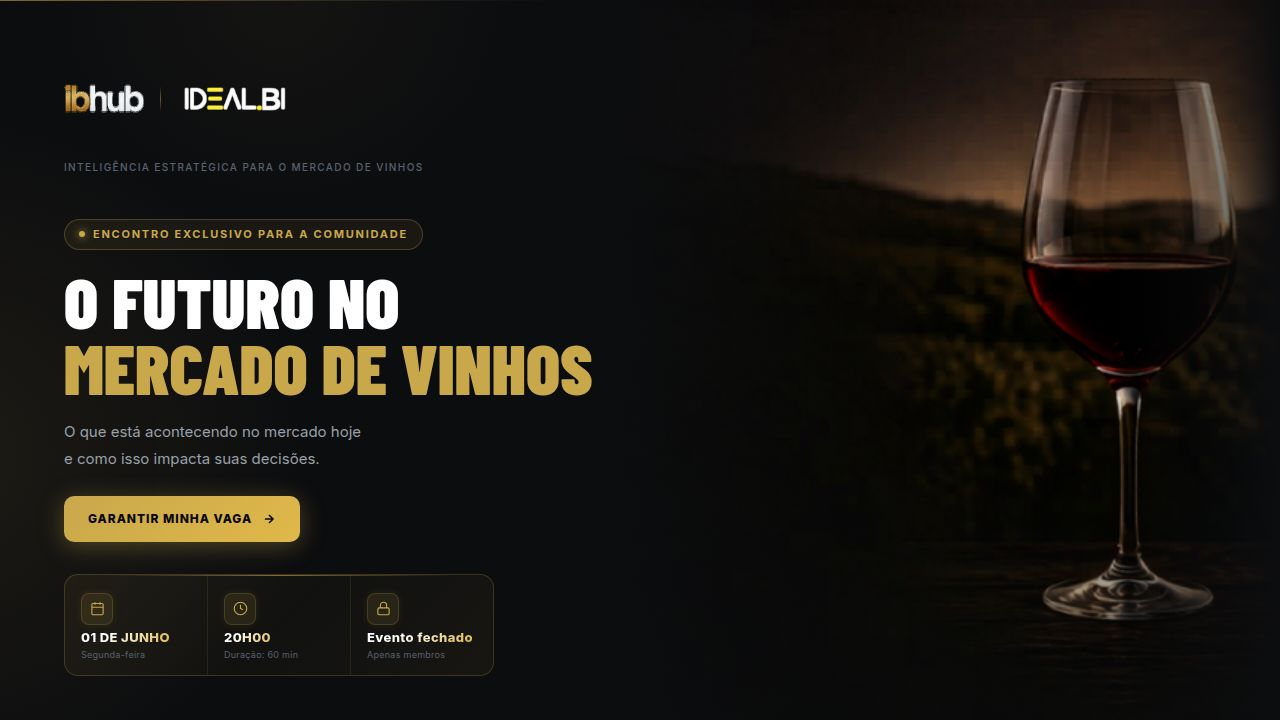
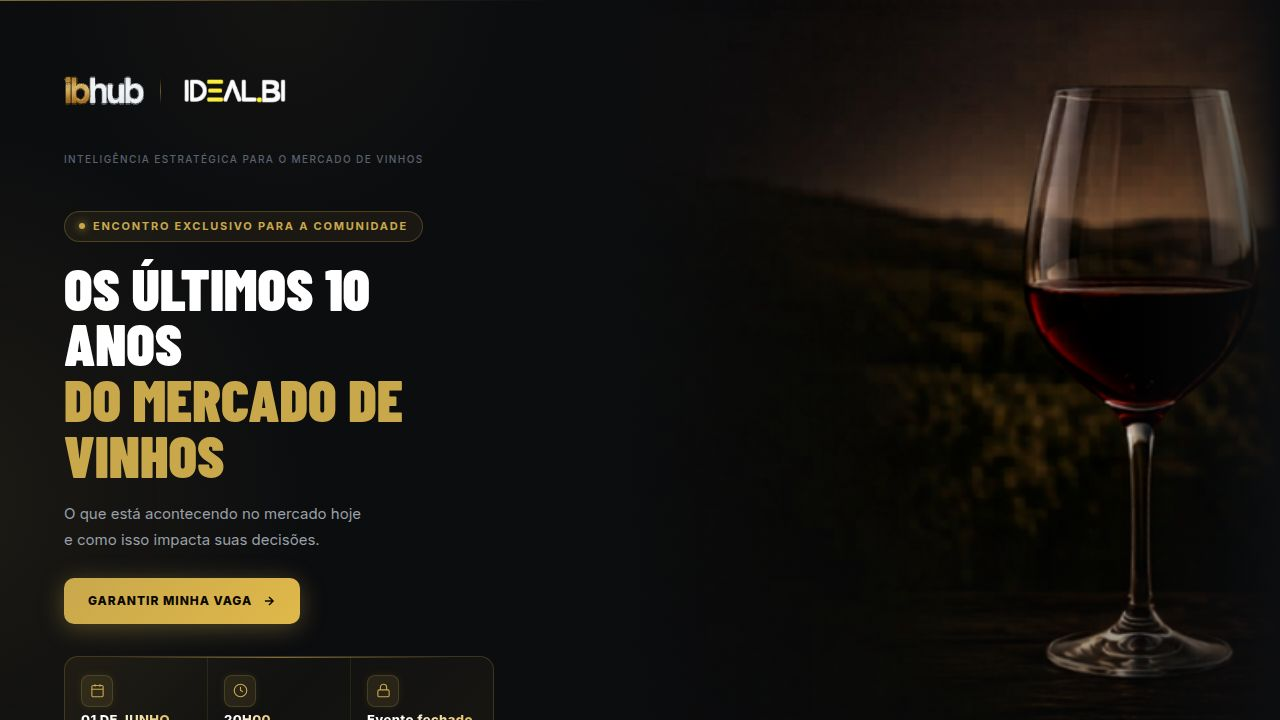
Update landing page title and improve user guidance with scroll indicator
Modify landing page title to "OS ÚLTIMOS 10 ANOS DO MERCADO DE VINHOS". Introduce an animated scroll-down arrow and adjust hero section height to bring the next section closer to the viewport, improving user experience and guiding them to further content.

Replit-Commit-Author: Agent
Replit-Commit-Session-Id: 2eb05c39-fa9f-46b1-afb6-aa17037cadb7
Replit-Commit-Checkpoint-Type: full_checkpoint
Replit-Commit-Event-Id: 6b0df346-e45e-4c02-917c-3f056e9dd2f2
Replit-Commit-Screenshot-Url: https://storage.googleapis.com/screenshot-production-us-central1/d8bcdebb-60bd-4856-affe-92aeed4161f0/2eb05c39-fa9f-46b1-afb6-aa17037cadb7/tvtwIUc
Replit-Helium-Checkpoint-Created: true

diff --git a/artifacts/landing-vinho/src/pages/Registration.tsx b/artifacts/landing-vinho/src/pages/Registration.tsx
@@ -102,8 +102,8 @@ export default function Registration() {
       <section style={{
         display: "grid",
         gridTemplateColumns: isMobile ? "1fr" : "44% 56%",
-        minHeight: isMobile ? "auto" : "760px",
-        position: isMobile ? "relative" : "static",
+        minHeight: isMobile ? "auto" : "620px",
+        position: "relative",
         overflow: "hidden",
       }}>
         {/* Mobile background image — sits behind content */}
@@ -123,7 +123,7 @@ export default function Registration() {
           background: isMobile ? "transparent" : `radial-gradient(ellipse 100% 70% at -10% 60%, rgba(201,168,76,0.09) 0%, transparent 65%),
                        radial-gradient(ellipse 60% 40% at 50% 0%, rgba(201,168,76,0.04) 0%, transparent 70%),
                        ${C.bg}`,
-          padding: isMobile ? "36px 24px 48px" : "44px 64px 56px",
+          padding: isMobile ? "36px 24px 56px" : "36px 64px 72px",
           display: "flex", flexDirection: "column", justifyContent: "flex-start",
           position: "relative", zIndex: 1,
           order: isMobile ? 1 : 0,
@@ -169,14 +169,14 @@ export default function Registration() {
           <h1 style={{
             fontFamily: "'Barlow Condensed', sans-serif",
             fontWeight: 900,
-            fontSize: isMobile ? "clamp(38px, 10vw, 54px)" : "clamp(52px, 5.5vw, 76px)",
+            fontSize: isMobile ? "clamp(34px, 8.8vw, 48px)" : "clamp(40px, 3.9vw, 54px)",
             lineHeight: 0.95,
             textTransform: "uppercase",
             margin: "0 0 18px",
             whiteSpace: isMobile ? "normal" : "nowrap",
           }}>
-            <span style={{ color: C.white }}>O FUTURO NO</span><br />
-            <span style={{ color: C.gold }}>MERCADO DE VINHOS</span>
+            <span style={{ color: C.white }}>OS ÚLTIMOS 10 ANOS</span><br />
+            <span style={{ color: C.gold }}>DO MERCADO DE VINHOS</span>
           </h1>
 
           <p style={{ fontSize: "15px", color: C.muted, lineHeight: 1.75, margin: "0 0 24px", maxWidth: isMobile ? "100%" : "380px" }}>
@@ -282,6 +282,54 @@ export default function Registration() {
             }} />
           </div>
         )}
+
+        {/* ▼ Scroll-down indicator — tells users there's more below */}
+        <a
+          href="#inscricao"
+          aria-label="Rolar para a próxima seção"
+          onClick={e => { e.preventDefault(); document.getElementById("inscricao")?.scrollIntoView({ behavior: "smooth" }); }}
+          style={{
+            position: "absolute",
+            left: "50%",
+            bottom: isMobile ? "14px" : "18px",
+            transform: "translateX(-50%)",
+            display: "inline-flex",
+            flexDirection: "column",
+            alignItems: "center",
+            gap: "6px",
+            color: C.gold,
+            textDecoration: "none",
+            zIndex: 3,
+            padding: "6px 14px",
+            cursor: "pointer",
+          }}
+        >
+          <span style={{
+            fontSize: "10px",
+            fontWeight: 700,
+            letterSpacing: "0.18em",
+            textTransform: "uppercase",
+            color: C.gold,
+            textShadow: "0 1px 8px rgba(0,0,0,0.6)",
+          }}>
+            Veja mais
+          </span>
+          <span className="ibhub-scroll-arrow" style={{
+            display: "inline-flex",
+            alignItems: "center",
+            justifyContent: "center",
+            width: "34px",
+            height: "34px",
+            borderRadius: "50%",
+            background: "rgba(201,168,76,0.10)",
+            border: "1px solid rgba(201,168,76,0.45)",
+            boxShadow: "0 0 14px rgba(201,168,76,0.18)",
+          }}>
+            <svg width="16" height="16" viewBox="0 0 24 24" fill="none" stroke="currentColor" strokeWidth="2.5" strokeLinecap="round" strokeLinejoin="round">
+              <polyline points="6 9 12 15 18 9" />
+            </svg>
+          </span>
+        </a>
       </section>
 
       {/* ═══ PARTICIPE + FORM ═══ */}

diff --git a/artifacts/landing-vinho/src/index.css b/artifacts/landing-vinho/src/index.css
@@ -330,3 +330,14 @@
     inset: -1px;
   }
 }
+/* Hero scroll-down arrow bounce animation */
+@keyframes ibhub-bounce-down {
+  0%, 100% { transform: translateY(0); opacity: 0.85; }
+  50%      { transform: translateY(8px); opacity: 1; }
+}
+.ibhub-scroll-arrow {
+  animation: ibhub-bounce-down 1.8s ease-in-out infinite;
+}
+@media (prefers-reduced-motion: reduce) {
+  .ibhub-scroll-arrow { animation: none; }
+}
